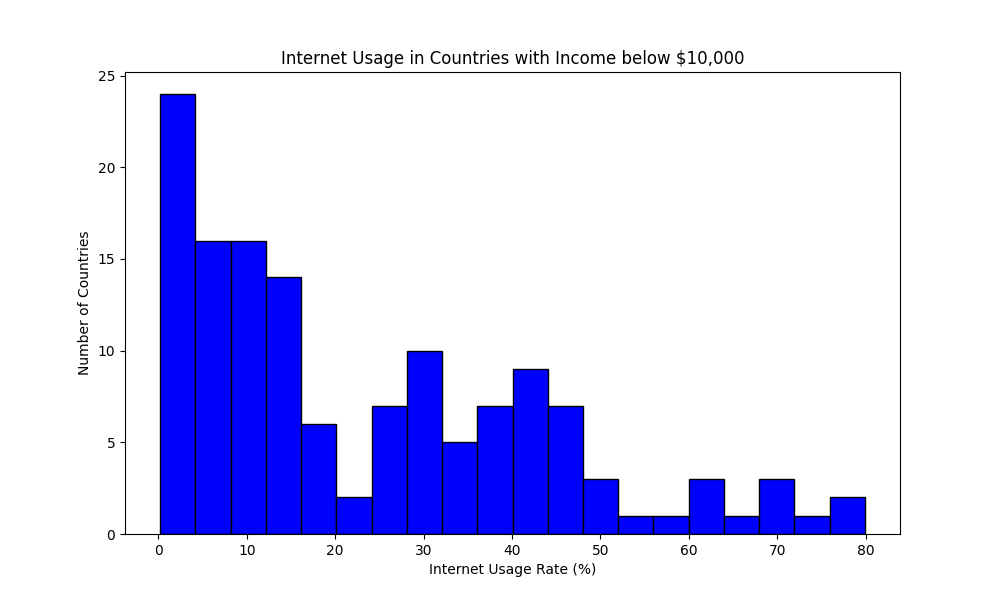
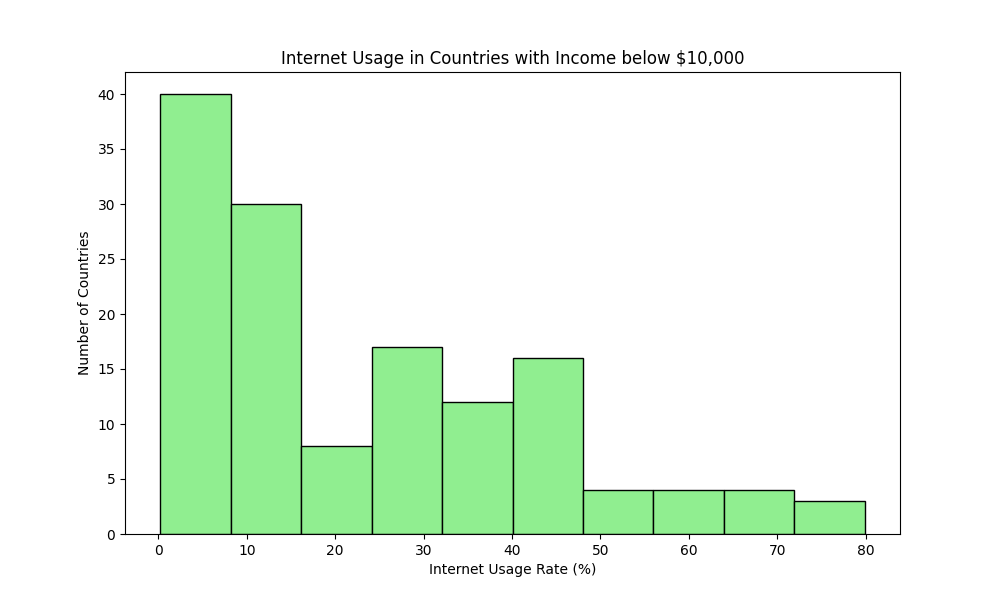
histogram changed

diff --git a/Part 3/p3.py b/Part 3/p3.py
@@ -2,24 +2,24 @@ import json
 import matplotlib.pyplot as plt
 
 def separate_by_income(data):
-    below_10000 = []
-    at_or_above_10000 = []
+    income_below_10000 = []
+    income_at_or_above_10000 = []
 
     for country in data:
         income = country.get("incomeperperson")
         if income is not None and isinstance(income, (int, float)):
             if income < 10000:
-                below_10000.append(country)
+                income_below_10000.append(country)
             else:
-                at_or_above_10000.append(country)
+                income_at_or_above_10000.append(country)
 
-    return below_10000, at_or_above_10000
+    return income_below_10000, income_at_or_above_10000
 
 
-def plot_histogram(data, filename, title):
+def plot(data, filename, title):
     internet_usage = [country["internetuserate"] for country in data if country["internetuserate"] is not None]
     plt.figure(figsize=(10, 6))
-    plt.hist(internet_usage, bins=20, color='blue', edgecolor='black')
+    plt.hist(internet_usage, color='lightgreen', edgecolor='black')
     plt.title(title)
     plt.xlabel('Internet Usage Rate (%)')
     plt.ylabel('Number of Countries')
@@ -29,7 +29,7 @@ def plot_histogram(data, filename, title):
 with open('Part 3/internetdata.json', 'r') as file:
     data = json.load(file)
 
-below_10000, at_or_above_10000 = separate_by_income(data)
+income_below_10000, income_at_or_above_10000 = separate_by_income(data)
 
-plot_histogram(below_10000, 'hist1.png', 'Internet Usage in Countries with Income below $10,000')
-plot_histogram(at_or_above_10000, 'hist2.png', 'Internet Usage in Countries with Income at or above $10,000')
+plot(income_below_10000, 'hist1.png', 'Internet Usage in Countries with Income below $10,000')
+plot(income_at_or_above_10000, 'hist2.png', 'Internet Usage in Countries with Income at or above $10,000')
